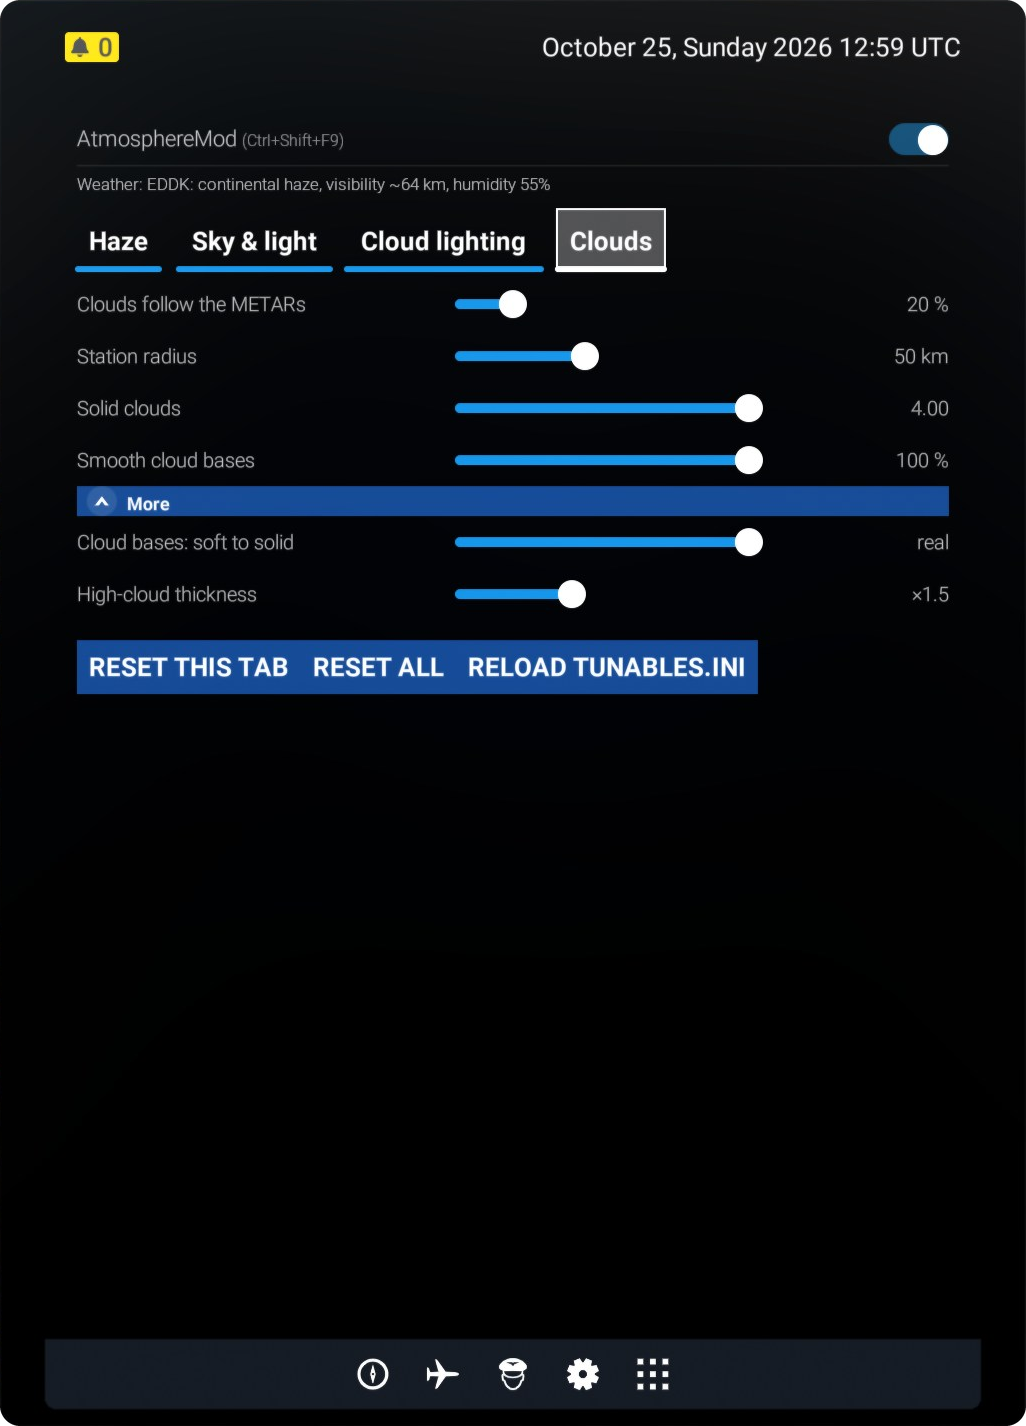
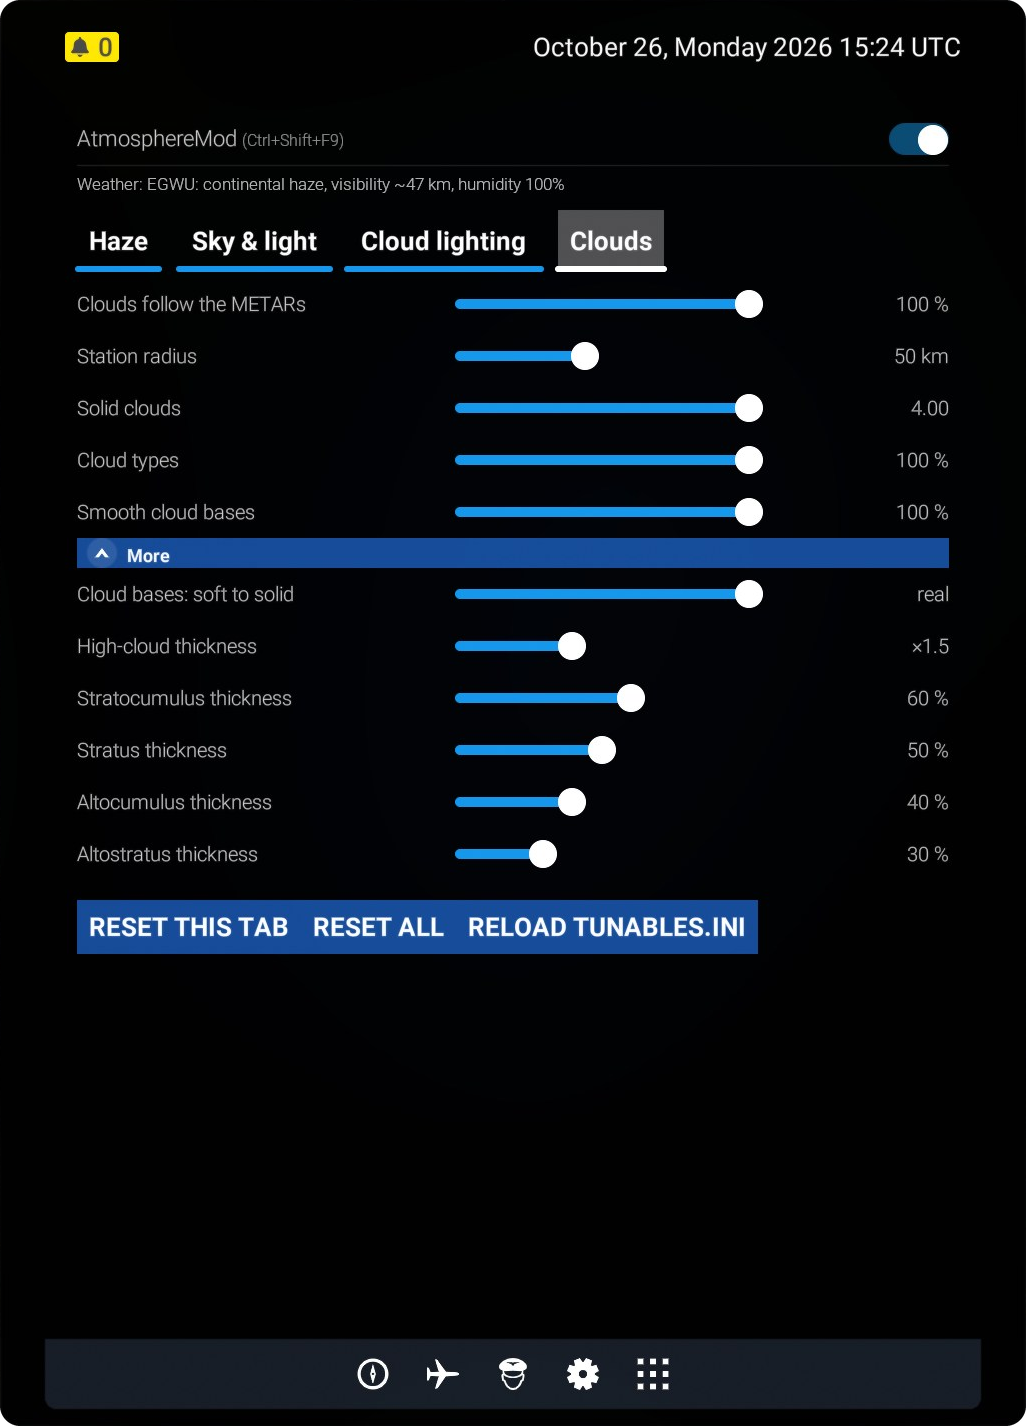
README: the EFB's Clouds tab with the cloud types settings
The Clouds tab screenshot now shows the "Cloud types" slider and, under "More", each type's thickness; its caption says so.

diff --git a/README.md b/README.md
@@ -228,7 +228,7 @@ settings changed from the defaults.
   </tr>
   <tr>
     <td><b>Cloud lighting</b>, with its "More" section open: silver lining, glory, your aircraft's shadow.</td>
-    <td><b>Clouds</b>, with "More" open: the METAR anchoring, solid clouds and smooth bases.</td>
+    <td><b>Clouds</b>, with "More" open: the METAR anchoring, solid clouds, cloud types and smooth bases; under "More", each cloud type's thickness.</td>
   </tr>
 </table>
 
